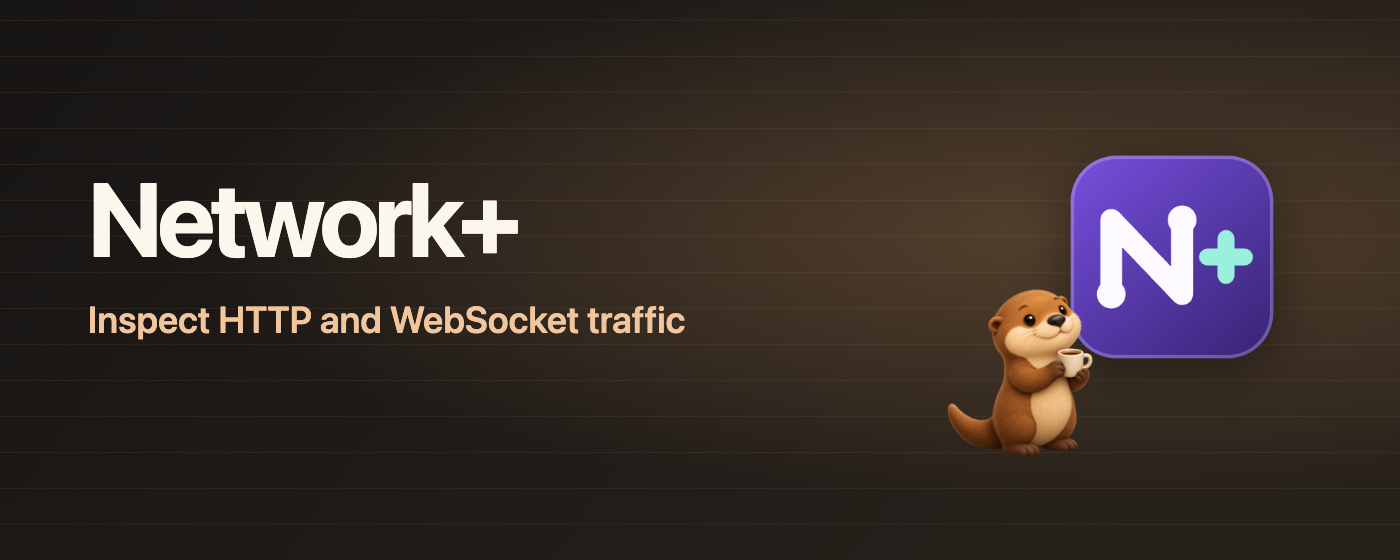
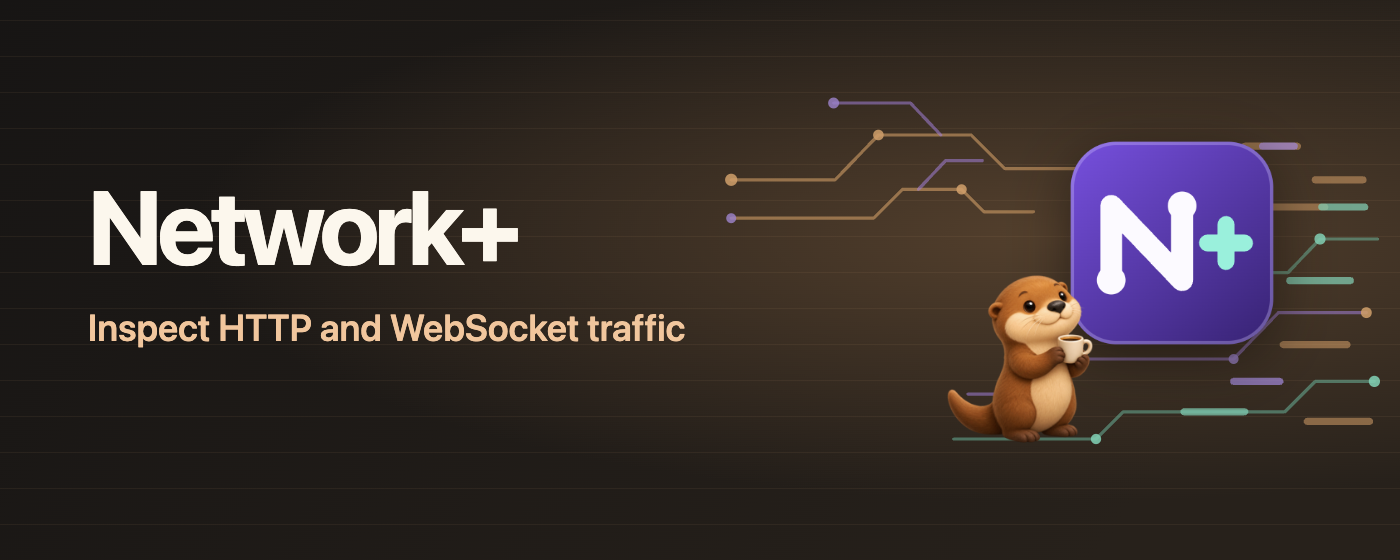
Preserve updated Network+ promotional artwork

diff --git a/scripts/render-store-screenshots.js b/scripts/render-store-screenshots.js
@@ -2,6 +2,7 @@
 /* global DataTransfer, document -- Browser callbacks are executed in the isolated panel. */
 // Render the listing graphics and current workbench from local, synthetic data.
 // Usage: CHROME_BIN=/path/to/chrome npm run store:screenshots
+// Pass -- --promo-only to refresh just the two promotional tiles.
 
 const fs = require('node:fs');
 const path = require('node:path');
@@ -224,15 +225,46 @@ const BRAND_CSS =
   '.brand{width:100%;height:100%;position:relative;overflow:hidden;background:' +
   'radial-gradient(ellipse at 76% 42%,#54402d 0,transparent 58%),linear-gradient(125deg,#171514,#27211b 83%)}' +
   '.lines{position:absolute;inset:0;opacity:.37;background:repeating-linear-gradient(0deg,transparent 0 35px,#d8aa7c33 35px 36px)}' +
+  '.promo-network{position:absolute;inset:0;width:100%;height:100%}' +
+  '.wide .promo-network{inset:39px 0 auto auto;width:704px;height:448px;opacity:.88}' +
   '.mark,.mascot{position:absolute;object-fit:contain}.mark{filter:drop-shadow(0 14px 28px #110d0a95)}' +
-  '.small .mark{width:150px;left:193px;top:56px}.small .mascot{width:119px;left:84px;bottom:40px}' +
-  '.wide .mark{width:216px;right:120px;top:149px}.wide .mascot{width:186px;right:282px;bottom:94px}' +
-  '.copy{position:absolute;left:88px;top:166px}.copy h1{font-size:104px;line-height:1;margin:0;letter-spacing:-.045em}' +
+  '.small .mark{width:150px;left:185px;top:56px}.small .mascot{width:119px;left:84px;bottom:47px}' +
+  '.wide .mark{width:216px;right:120px;top:135px}.wide .mascot{width:186px;right:282px;bottom:108px}' +
+  '.copy{position:absolute;left:88px;top:174px}.copy h1{font-size:104px;line-height:1;margin:0;letter-spacing:-.045em}' +
   '.copy p{font-size:37px;font-weight:550;color:#f1c69d;margin:27px 0 0}' +
   '.shot{height:100%;padding:18px 24px 24px;background:linear-gradient(155deg,#30271e,#141311 46%)}' +
   '.shot header{height:94px;display:flex;align-items:flex-start;gap:18px}' +
   '.shot header img{width:61px;height:61px;margin-top:2px}.shot h1{font-size:36px;line-height:1.1;margin:0;font-weight:760;letter-spacing:-.025em}' +
   '.shot p{font-size:17px;color:#e0c4a7;margin:7px 0 0}.panel{width:1232px;height:664px;display:block;border-radius:10px;outline:1px solid #97704d}';
+
+const PROMO_NETWORK = `<svg class="promo-network" viewBox="0 0 440 280" aria-hidden="true">
+  <g fill="none" stroke-linecap="round" stroke-linejoin="round">
+    <path d="M22 88h65l27-28h58l21 21h46M22 112h89l18-18h37l14 14h31"
+          stroke="#d6a169" stroke-opacity=".65" stroke-width="2"/>
+    <path d="M86 40h48l19 20M139 94l17-18h23M170 222h42l22-22h102l28-29h55"
+          stroke="#af8af3" stroke-opacity=".54" stroke-width="2"/>
+    <path d="M324 146h46l20-21h36M161 250h89l17-17h101l19-19h37"
+          stroke="#79d8bc" stroke-opacity=".48" stroke-width="2"/>
+    <path d="M343 67h33m11 21h30m-62 17h38m-26 86h40m-25 48h39"
+          stroke="#d6a169" stroke-opacity=".61" stroke-width="4.5"/>
+    <path d="M391 105h27m-47 46h38m-104 82h38"
+          stroke="#8ce7c9" stroke-opacity=".72" stroke-width="4.5"/>
+    <path d="M354 67h20m-38 147h29"
+          stroke="#b094f0" stroke-opacity=".74" stroke-width="4.5"/>
+  </g>
+  <g fill="#e3ad73" opacity=".86">
+    <circle cx="22" cy="88" r="3.8"/><circle cx="114" cy="60" r="3.3"/>
+    <circle cx="166" cy="94" r="3.2"/><circle cx="419" cy="171" r="3.4"/>
+  </g>
+  <g fill="#a88ddf" opacity=".82">
+    <circle cx="86" cy="40" r="3.4"/><circle cx="22" cy="112" r="3.1"/>
+    <circle cx="212" cy="222" r="3.7"/><circle cx="336" cy="200" r="3.1"/>
+  </g>
+  <g fill="#8ce7c9" opacity=".86">
+    <circle cx="390" cy="125" r="3.5"/><circle cx="250" cy="250" r="3.2"/>
+    <circle cx="424" cy="214" r="3.5"/>
+  </g>
+</svg>`;
 
 async function renderGraphic(cdp, width, height, markup, transparent = false) {
   const html =
@@ -262,8 +294,10 @@ async function renderGraphic(cdp, width, height, markup, transparent = false) {
 
 async function main() {
   if (!process.env.CHROME_BIN) throw new Error('Set CHROME_BIN to render the store artwork.');
+  const promoOnly = process.argv.includes('--promo-only');
+  const screenshots = promoOnly ? [] : SCREENSHOTS;
   const captures = new Map();
-  for (const screenshot of SCREENSHOTS) captures.set(screenshot.file, await captureScene(screenshot));
+  for (const screenshot of screenshots) captures.set(screenshot.file, await captureScene(screenshot));
   const page = await launchPanelPage({ executable: process.env.CHROME_BIN, width: 400, height: 300 });
   const output = new Map();
   try {
@@ -275,7 +309,7 @@ async function main() {
       '<style>svg{width:300px;height:300px;display:block}</style>' + vector,
       true,
     );
-    output.set('logo-300.png', logo);
+    if (!promoOnly) output.set('logo-300.png', logo);
     const mark = '<img alt="" class="mark" src="' + dataUrl(logo) + '">';
     const mascot = '<img alt="" class="mascot" src="' + dataUrl(bytes('assets/support-otter.png')) + '">';
     output.set(
@@ -284,7 +318,7 @@ async function main() {
         page.cdp,
         440,
         280,
-        '<div class="brand small"><div class="lines"></div>' + mark + mascot + '</div>',
+        '<div class="brand small"><div class="lines"></div>' + PROMO_NETWORK + mark + mascot + '</div>',
       ),
     );
     output.set(
@@ -294,13 +328,14 @@ async function main() {
         1400,
         560,
         '<div class="brand wide"><div class="lines"></div>' +
+          PROMO_NETWORK +
           '<div class="copy"><h1>Network+</h1><p>Inspect HTTP and WebSocket traffic</p></div>' +
           mark +
           mascot +
           '</div>',
       ),
     );
-    for (const screenshot of SCREENSHOTS) {
+    for (const screenshot of screenshots) {
       const panel = '<img class="panel" alt="" src="' + dataUrl(captures.get(screenshot.file)) + '">';
       const heading =
         '<header><img alt="" src="' +

diff --git a/docs/CHANGELOG.md b/docs/CHANGELOG.md
@@ -4,6 +4,7 @@ All notable changes to Network+ for DevTools. Versions follow [Semantic Versioni
 
 ## Unreleased
 
+- 🔧 **Promotional artwork** — Restore the network lines and junctions and balance the artwork in the charcoal store tiles.
 - 🔧 **Store submission** — Publish Release now submits each new release to both stores, or uploads drafts when store images changed.
 - 📝 **README tour** — Refresh the banner and animated demo, and surface install links and first steps in English and Japanese.
 
